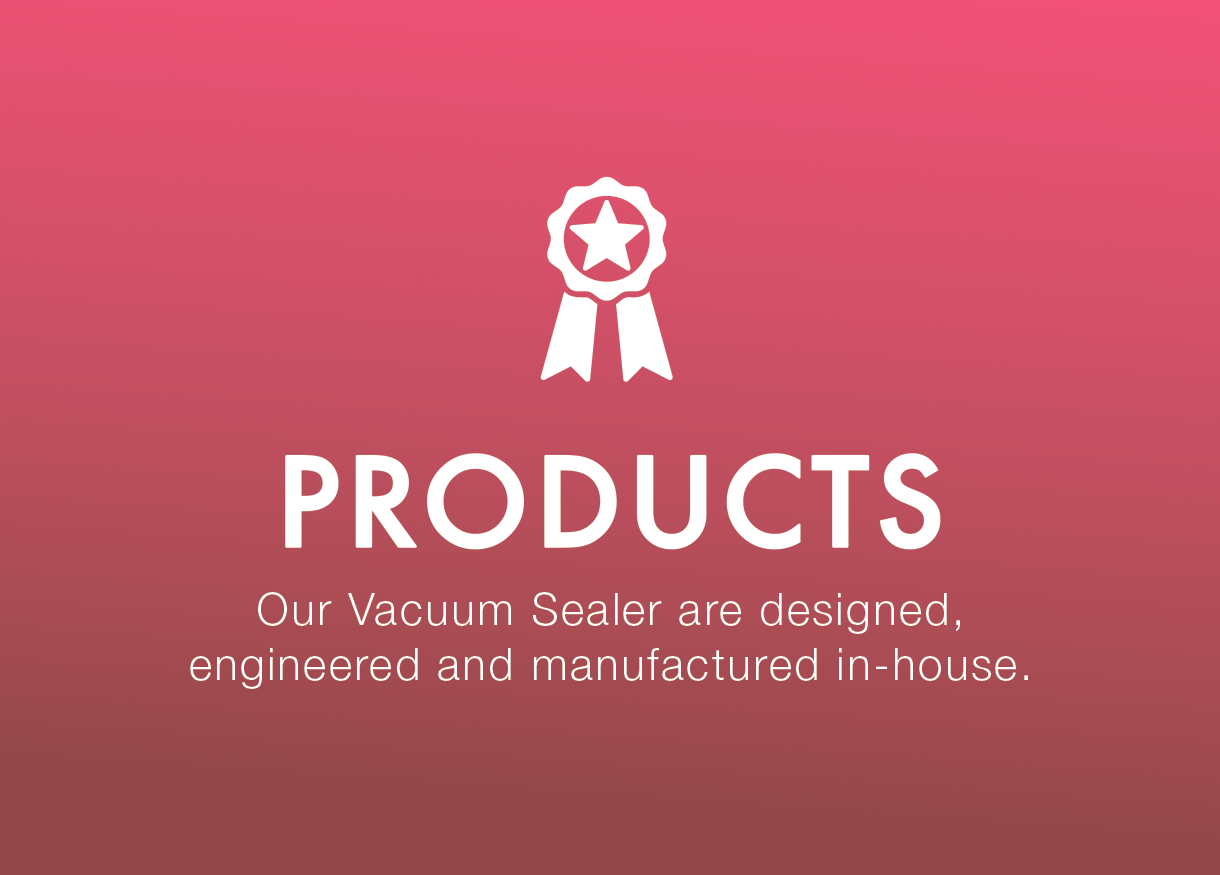
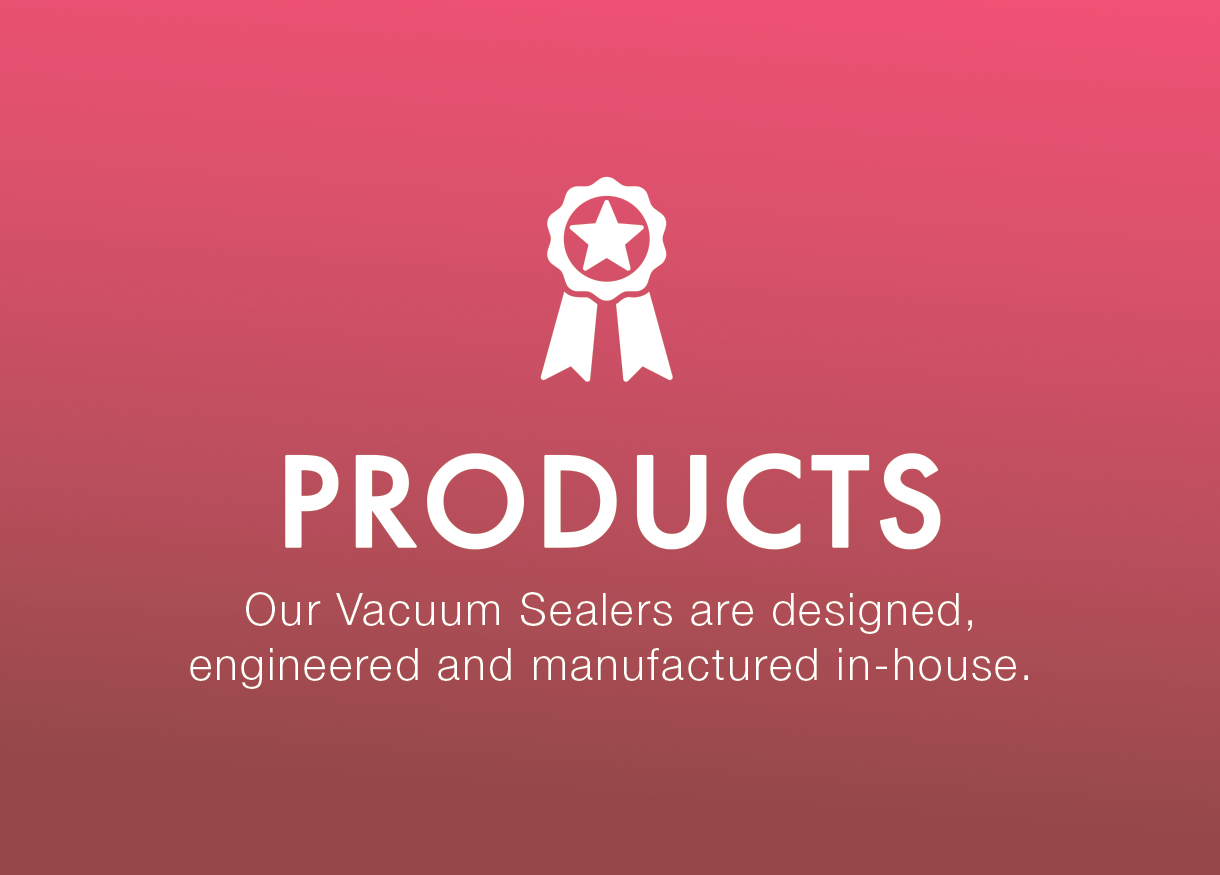
ajustes diseno

Changed region(s): [[0.1869, 0.6789, 0.8098, 0.7714]]

diff --git a/index.html b/index.html
@@ -37,7 +37,7 @@
                 <span ng-click="loadPage('contact')">Contact</span> 
               </div>
               <div class='raya-derecha col-xs-3 col-sm-3 col-md-1'>
-                <span ng-click="loadPage('products')">Products<span class='trian'>&#x25BC</span> </span>  
+                <span ng-click="loadPage('products')" ng-mouseover="showMenu()" ng-mouseleave="hideMenu()">Products<span class='trian'>&#x25BC</span> </span>  
               </div>
               <div class='raya-derecha col-xs-3 col-sm-3 col-md-1'>
                 <span ng-click="loadPage('about_us')">About us</span>  
@@ -55,7 +55,7 @@
           <div class='col-md-12 col-sm-12 col-xs-12' style='position:relative'>
 
             <div class='col-md-12 col-sm-12 col-xs-12 show-menu' style='position:absolute; z-index:2;'>
-              <div class='col-md-3 col-xs-12 col-sm-12' style='padding:0%; float:right;'>
+              <div class='col-md-3 col-xs-12 col-sm-12' ng-mouseover="showMenu()" ng-mouseleave="hideMenu()" style='padding:0%; float:right;'>
                 <div class='hover-2 boton col-md-9 col-sm-6 col-xs-6  r-bottom back-white2 nopadding txt-c' style='float:left' ng-click='loadPage("compare")'>
                   <span class='font1'>Compare</span>
                 </div>
@@ -105,15 +105,21 @@
 
          <div class='col-md-5 col-sm-6 col-xs-12'>
             
-            <div class='col-md-6 col-xs-6 col-sm-6' style='height:2px'>
-              
-            </div>
+            <div class='col-md-6 col-xs-6 col-sm-6' style='height:2px'></div>
            <span class='col-md-4 col-sm-5 col-xs-6 hov4 cursor' ng-click='loadPage("compare")' style='text-align:left;'>&#9658;Compare</span>
            
-            <div class='col-md-6 col-xs-6 col-sm-6' style='height:2px'>
-              
-            </div>
+            <div class='col-md-6 col-xs-6 col-sm-6' style='height:2px'></div>
            <span class='col-md-6 col-sm-6 col-xs-6 hov4 cursor' ng-click='loadPage("selector")' style='text-align:left;' > &#9658;Vacuum Selector</span>
+
+
+           <div class='col-md-6 col-xs-6 col-sm-6' style='height:2px'></div>
+           <span class='col-md-6 col-sm-6 col-xs-6 hov4 cursor' ng-click='toProduct("AVN")' style='text-align:left;' > &#9658;AVN</span>
+           <div class='col-md-6 col-xs-6 col-sm-6' style='height:2px'></div>
+           <span class='col-md-6 col-sm-6 col-xs-6 hov4 cursor' ng-click='toProduct("AVS")' style='text-align:left;' > &#9658;AVS</span>
+           <div class='col-md-6 col-xs-6 col-sm-6' style='height:2px'></div>
+           <span class='col-md-6 col-sm-6 col-xs-6 hov4 cursor' ng-click='toProduct("CAVN")' style='text-align:left;' > &#9658;CAVN</span>
+           <div class='col-md-6 col-xs-6 col-sm-6' style='height:2px'></div>
+           <span class='col-md-6 col-sm-6 col-xs-6 hov4 cursor' ng-click='toProduct("PARTS")' style='text-align:left;' > &#9658;PARTS</span>
          </div>
          <div class='foot-img col-md-8 col-sm-12 col-xs-12' style='padding-left:0%'>
            <img src="img/home/logo-menu_000.png" alt="">

diff --git a/js/app.js b/js/app.js
@@ -176,6 +176,8 @@ app.controller('controlador', function($scope,$sce, $http) {
 */
 	$scope.handler = new Cart_Form_Handler($scope, $scope.carrito, $scope.formulario);
 
+
+
 	$scope.searchText;
 	$scope.searchText_2;
 	$scope.productos = 
@@ -1227,7 +1229,11 @@ app.controller('controlador', function($scope,$sce, $http) {
 
 	];
 
+	$scope.showCartButton = false;
 
+	$scope.showCartButtonn = function(){
+		$scope.showCartButton = !$scope.showCartButton;
+	};
 
 	$scope.isVacuum = true;
 	$scope.currentPage = "home.html";
@@ -1493,10 +1499,19 @@ app.controller('controlador', function($scope,$sce, $http) {
 	$scope.toProduct = function(name){
 
 		$scope.getProduct(name);
+
+
 		$scope.loadPage('all-products');
 
-		console.log('toProduct ' + name);
+		$('#' + name).addClass('seleccion');
+
+//		console.log('toProduct ' + name);
 	}
+	$scope.scrollProd = function(){
+		console.log('scrfoll prod');
+		window.scrollBy(0,1700);
+
+	};
 
 	$scope.getCat = function(name){
 		console.log('click cat');
@@ -1663,6 +1678,8 @@ app.controller('controlador', function($scope,$sce, $http) {
 	$scope.showing = false;
 	$scope.showingC = undefined;
 	$scope.showMenu =  function(){
+		console.log('showing menu');
+		//if($scope.showing)
 		$('.show-menu').velocity({
 			translateY: 0 + 'px',
 		},{
@@ -1757,7 +1774,7 @@ app.controller('controlador', function($scope,$sce, $http) {
 				break;
 			case 'products':
 				$scope.currentPage = "productos.html";
-				$scope.showMenu();
+				//$scope.showMenu();
 				break;
 			case 'all-products':
 				$scope.currentPage = 'producto.html';
@@ -2800,8 +2817,20 @@ app.controller('compare', function($scope, $http){
 				$scope.producto_1['name'] = obj['name'];
 				$scope.producto_1['subtitulo'] = obj['subtitulo'];
 				//$scope.producto_1['src'] = obj['src'];
+				$scope.producto_1['parrafo'] = obj['parrafo'];
 
 			});
+
+
+			for(var i = 0; i < $scope.productos.length; i++){
+				if($scope.productos[i]['name'] == name){
+					$scope.producto_1['specs'] = $scope.productos[i]['specs'];
+				}
+			}
+
+
+
+
 				$('.menucito1 .seleccion').removeClass('seleccion');
 				$('.menucito1 #1' + name).addClass('seleccion');
 		
@@ -2837,8 +2866,17 @@ app.controller('compare', function($scope, $http){
 				var obj = data;//JSON.parse(data);
 				$scope.producto_2['name'] = obj['name'];
 				$scope.producto_2['subtitulo'] = obj['subtitulo'];
+				$scope.producto_2['parrafo'] = obj['parrafo'];
 
 			});
+
+			for(var i = 0; i < $scope.productos.length; i++){
+				if($scope.productos[i]['name'] == name){
+					$scope.producto_2['specs'] = $scope.productos[i]['specs'];
+				}
+			}
+
+
 				$('.menucito2 .seleccion').removeClass('seleccion');
 				$('.menucito2 #2' + name).addClass('seleccion');
 	}

diff --git a/compare.html b/compare.html
@@ -67,8 +67,25 @@
 			<div class='col-md-12 col-sm-12 col-xs-12 nopadding'>
 
 				<div class='row'>
+					<p ng-bind-html='producto_1.parrafo' style='margin-top:5%; text-align:justify;'></p>
+
+					<!--  TABLE SPECIFICATIONS -->
+					<div class='col-md-12 col-xs-12 col-sm-12 tabla-p' ng-show='isVacuum' style='margin-top:5%'>
+						<div class='col-md-12 col-sm-12 col-xs-12 nopadding mb-1'>
+							<span class='tab-name'>Specifications</span>
+						</div>
+						<div class='ren2 col-md-12 col-sm-12 col-xs-12 nopadding' ng-repeat='sp in producto_1.specs'>
+							<div class='col-md-6 nopadding'>
+								<span><strong>{{sp.spec}}</strong></span>
+							</div>
+							<div class='col-md-6 txt-r'>
+								<span>{{sp.val}}</span>
+							</div>					
+						</div>
+					</div>
+
 					<!-- PRICING TABLE -->
-					<div class='pricing_table col-md-11 col-sm-10 col-xs-12 tabla-p col-cen' style='padding-top:4%;'>
+					<div class='pricing_table col-md-12 col-sm-10 col-xs-12 tabla-p' style='margin-top:4%;'>
 						<div class='col-md-12 nopadding mb-1'>
 							<span class='tab-name'>Pricing</span>
 						</div>
@@ -86,6 +103,10 @@
 						</div>
 						
 					</div>
+
+
+
+
 				</div>
 
 			</div>
@@ -154,8 +175,27 @@
 			<div class='col-md-12 col-sm-12 col-xs-12 nopadding'>
 
 				<div class='row'>
+
+					<p ng-bind-html='producto_2.parrafo' style='text-align:justify; margin-top:5%'></p>
+
+					<!--  TABLE SPECIFICATIONS -->
+					<div class='col-md-12 col-xs-12 col-sm-12 tabla-p' ng-show='isVacuum' style='margin-top:5%'>
+						<div class='col-md-12 col-sm-12 col-xs-12 nopadding mb-1'>
+							<span class='tab-name'>Specifications</span>
+						</div>
+						<div class='ren2 col-md-12 col-sm-12 col-xs-12 nopadding' ng-repeat='sp in producto_2.specs'>
+							<div class='col-md-6 nopadding'>
+								<span><strong>{{sp.spec}}</strong></span>
+							</div>
+							<div class='col-md-6 txt-r'>
+								<span>{{sp.val}}</span>
+							</div>					
+						</div>
+					</div>
+
+
 					<!-- PRICING TABLE -->
-					<div class='pricing_table col-md-11 col-sm-10 col-xs-12 tabla-p col-cen' style='padding-top:4%;'>
+					<div class='pricing_table col-md-12 col-sm-10 col-xs-12 tabla-p' style='margin-top:4%;'>
 						<div class='col-md-12 nopadding mb-1'>
 							<span class='tab-name'>Pricing</span>
 						</div>
@@ -171,8 +211,10 @@
 							<!-- BOTON DE AGREGAR AL CARRITO-->
 							<img src='img/BOTON-2_000.png' class='col-md-4 col-sm-3 col-xs-4 carrito-boton cursor' ng-click='handler.addItem(x.id, x.size, x.price)'></img>
 						</div>
+
 						
 					</div>
+
 				</div>
 
 

diff --git a/productos.html b/productos.html
@@ -7,15 +7,15 @@
 		<div class='col-md-9 col-sm-12 col-xs-12 back-white' style='padding:4%; padding-top:7%; float:left;'>
 			<span class='col-md-12 col-sm-12 col-xs-12 blue-2 font1 our-txt'>OUR VACUUM SEALERS</span>
 			<p class='col-md-12 col-sm-12 col-xs-12 justif texto-1'>
-				The greatest testament to our Vacuum Sealers is the <strong>4000+ companies </strong>who have purchased, and continue to purchase our vacuum sealers. Our <strong>sales volume increases year-after-year</strong> principally due to word of mouth marketing and satisfied repeat customers.
+				The greatest testament to our Vacuum Sealers is the <strong>4000+ companies </strong>who have purchased, and continue to purchase our Vacuum Sealers. Our <strong>sales volume increases year-after-year</strong> mainly due to word of mouth marketing and satisfied repeat customers.
 
 				<br><br>
-				Our <strong>Vacuum Sealer lines are designed, engineered and manufactured in-house</strong> with a focus on <strong>safety, quality and performance</strong>. Every vacuum sealer that leaves our facility comes with a <strong>toll-free phone number to our engineering technical support team.</strong> Our team consists of engineers that designed and build our products and continuously look for improvements.
+				Our <strong>Vacuum Sealer lines are designed, engineered and manufactured in-house</strong> with a focus on <strong>safety, quality and performance</strong>. Every vacuum sealer that leaves our facility comes with a <strong>toll-free phone number to our engineering technical support team.</strong> Our team consists of engineers that design and build our products and continuously look for improvements.
 
 				<br><br>
 				<strong>All our sealers carry a 2-year limited warranty that cover both parts and labor.</strong>
 			</p>
-			<span class='col-md-12 col-sm-12 col-xs-12 blue-2 font1 txt-r boton bold' style='margin-top:3%; font-size:1.5em;'>Learn more...</span>
+			<span class='col-md-12 col-sm-12 col-xs-12 blue-2 font1 txt-r boton bold' style='margin-top:3%; font-size:1.5em;' ng-click="scrollProd()">Learn more...</span>
 			<!-- botton -->
 			<div class='col-md-12 col-sm-12 col-xs-12 margin-1 nopadding efectoH-2'>
 				<figure class='col-md-12'>

diff --git a/producto.html b/producto.html
@@ -17,9 +17,10 @@
 				</div>				
 			</div>
 			<div class='col-md-5 col-sm-6 col-xs-12' style='text-align:right; margin-top:5%; margin-bottom:5%' ng-show='isVacuum'>
-				<img src="img/BOTON-1_000.png" class='col-md-6 col-sm-7 col-xs-8' ng-click="toCompare('producto.name')">
-
+				<img src="img/BOTON-1_000.png" class='col-md-6 col-sm-7 col-xs-8 cursor' ng-click="toCompare('producto.name')">
+				<img src="img/BOTON-2_000.png" class='col-md-6 col-sm-7 col-xs-8 cursor' ng-click="showCartButtonn()">
 			</div>
+
 		</div>
 		<div class='col-md-7 col-sm-12 col-xs-12 nopadding' ng-show='isVacuum'>
 
@@ -54,7 +55,7 @@
 					<span class='col-md-3 col-sm-3 col-xs-3 nopadding'>{{x.size}}</span>
 					<span class='col-md-2 col-sm-2 col-xs-2 nopadding'>{{x.price}}</span>
 					<!-- BOTON DE AGREGAR AL CARRITO-->
-					<img src='img/BOTON-2_000.png' class='col-md-4 col-sm-3 col-xs-4 carrito-boton cursor' ng-click='handler.addItem(x.id, x.size, x.price)'></img>
+					<img src='img/BOTON-2_000.png' class='col-md-4 col-sm-3 col-xs-4 carrito-boton cursor' ng-click='handler.addItem(x.id, x.size, x.price)' ng-show='showCartButton'></img>
 				</div>
 			</div>
 
@@ -182,7 +183,7 @@
 			<div class='col-md-2 col-sm-2 col-xs-2'>
 				<span class='col-md-12 col-sm-12 col-xs-12'>{{part.price}}</span>
 			</div>	
-			<img src='img/BOTON-2_000.png' class='col-md-2 col-sm-3 col-xs-3 carrito-boton-1 cursor' ng-click='handler.addItem(part.id, part.size, part.price)'></img>			
+			<img src='img/BOTON-2_000.png' class='col-md-2 col-sm-3 col-xs-3 carrito-boton-1 cursor' ng-click='handler.addItem(part.id, part.size, part.price)' ng-show="showCartButton"></img>			
 		</div>
 		
 	</div>
@@ -220,7 +221,7 @@
 			<div class='col-md-2 col-sm-2 col-xs-2'>
 				<span class='col-md-12 col-sm-12 col-xs-12'>{{part.price}}</span>
 			</div>
-			<img src='img/BOTON-2_000.png' class='col-md-2 col-sm-3 col-xs-3 carrito-boton-1 cursor' ng-click='handler.addItem(part.id, part.size, part.price)'></img>			
+			<img src='img/BOTON-2_000.png' class='col-md-2 col-sm-3 col-xs-3 carrito-boton-1 cursor' ng-click='handler.addItem(part.id, part.size, part.price)' ng-show='showCartButton'></img>			
 		</div>
 		
 	</div>

diff --git a/about_us.html b/about_us.html
@@ -9,7 +9,7 @@
       <div class='message_amerivacs col-md-9'>
         <p>
             Our <strong> quality vacuum sealers </strong> are the result of experience. <strong>Experience</strong> that began with
-            the design of the industry’s first tabletop compressed air vacuum sealer. Experience that lead to the formation of <strong>AmeriVacS</strong> in an effort to design <strong>vacuum sealers that exceed industry standards</strong> for design integrity, component quality, speed, redundancy, and failsafe mechanisms. Experience that is evident in every sealer we produce: from our very first, to our newest vacuum sealers. Experience is the reason why <strong>AmeriVacS continues to lead the industry in design innovation, quality and speed.</strong>
+            the design of the industry’s first tabletop compressed air driven vacuum sealer. Experience that lead to the formation of <strong>AmeriVacS</strong> in an effort to design <strong>vacuum sealers that exceed industry standards</strong> for design integrity, component quality, speed, redundancy, and failsafe mechanisms. Experience that is evident in every sealer we produce: from our very first, to our newest vacuum sealers. Experience is the reason why <strong>AmeriVacS continues to lead the industry in design innovation, quality and speed.</strong>
 
             <br><br>
             Don’t risk your company‘s reputation on an inferior vacuum seal, ask today about our

diff --git a/css/style.css b/css/style.css
@@ -438,6 +438,7 @@ ABOUT US
 .producto-menu{
 	
 	text-align: center;
+	/*width: 11%;*/
 	height: 115px;
 
 	-webkit-transform: scale(1);
@@ -838,18 +839,24 @@ li:before {
 
 
 .iconos div:nth-child(1) img{
-	
+	-webkit-transform: scale(0.8);
+	transform: scale(0.8);
 	padding-top: 1%;
 }
 .iconos div:nth-child(2) img{
+		-webkit-transform: scale(0.8);
+	transform: scale(0.8);
 	padding: 2%;
 	padding-top: 3%;
 }
 .iconos div:nth-child(3) img{
-	
+		-webkit-transform: scale(0.8);
+	transform: scale(0.8);
 	padding-top: 1%;
 }
 .iconos div:nth-child(4) img{
+		-webkit-transform: scale(0.7);
+	transform: scale(0.7);
 	padding: 3%;
 	padding-top: 1%;
 }
@@ -1445,11 +1452,12 @@ font-size: 1.2em;
 */
 .carrito{
 	background-color: white;
+	border: solid 1px;
 }
 
 .boxclose{
     cursor:pointer;
-    background-color: red;
+    background-color: #da262d;
     margin: 0%;
 }
 

diff --git a/home.html b/home.html
@@ -52,7 +52,7 @@
           </div>
 
           <div class='col-md-12 col-sm-12 col-xs-12 efectoE img-hov-3 cursor' ng-click='loadPage("contact")'>
-            <img src="img/home/imagen_003.png" class='col-md-12 col-sm-12 col-xs-12 nopadding' style='width:109.5%' alt="">
+            <img src="img/home/imagen_003.png" class='col-md-12 col-sm-12 col-xs-12 nopadding' style='width:100%' alt="">
           </div>
         
         </div>
